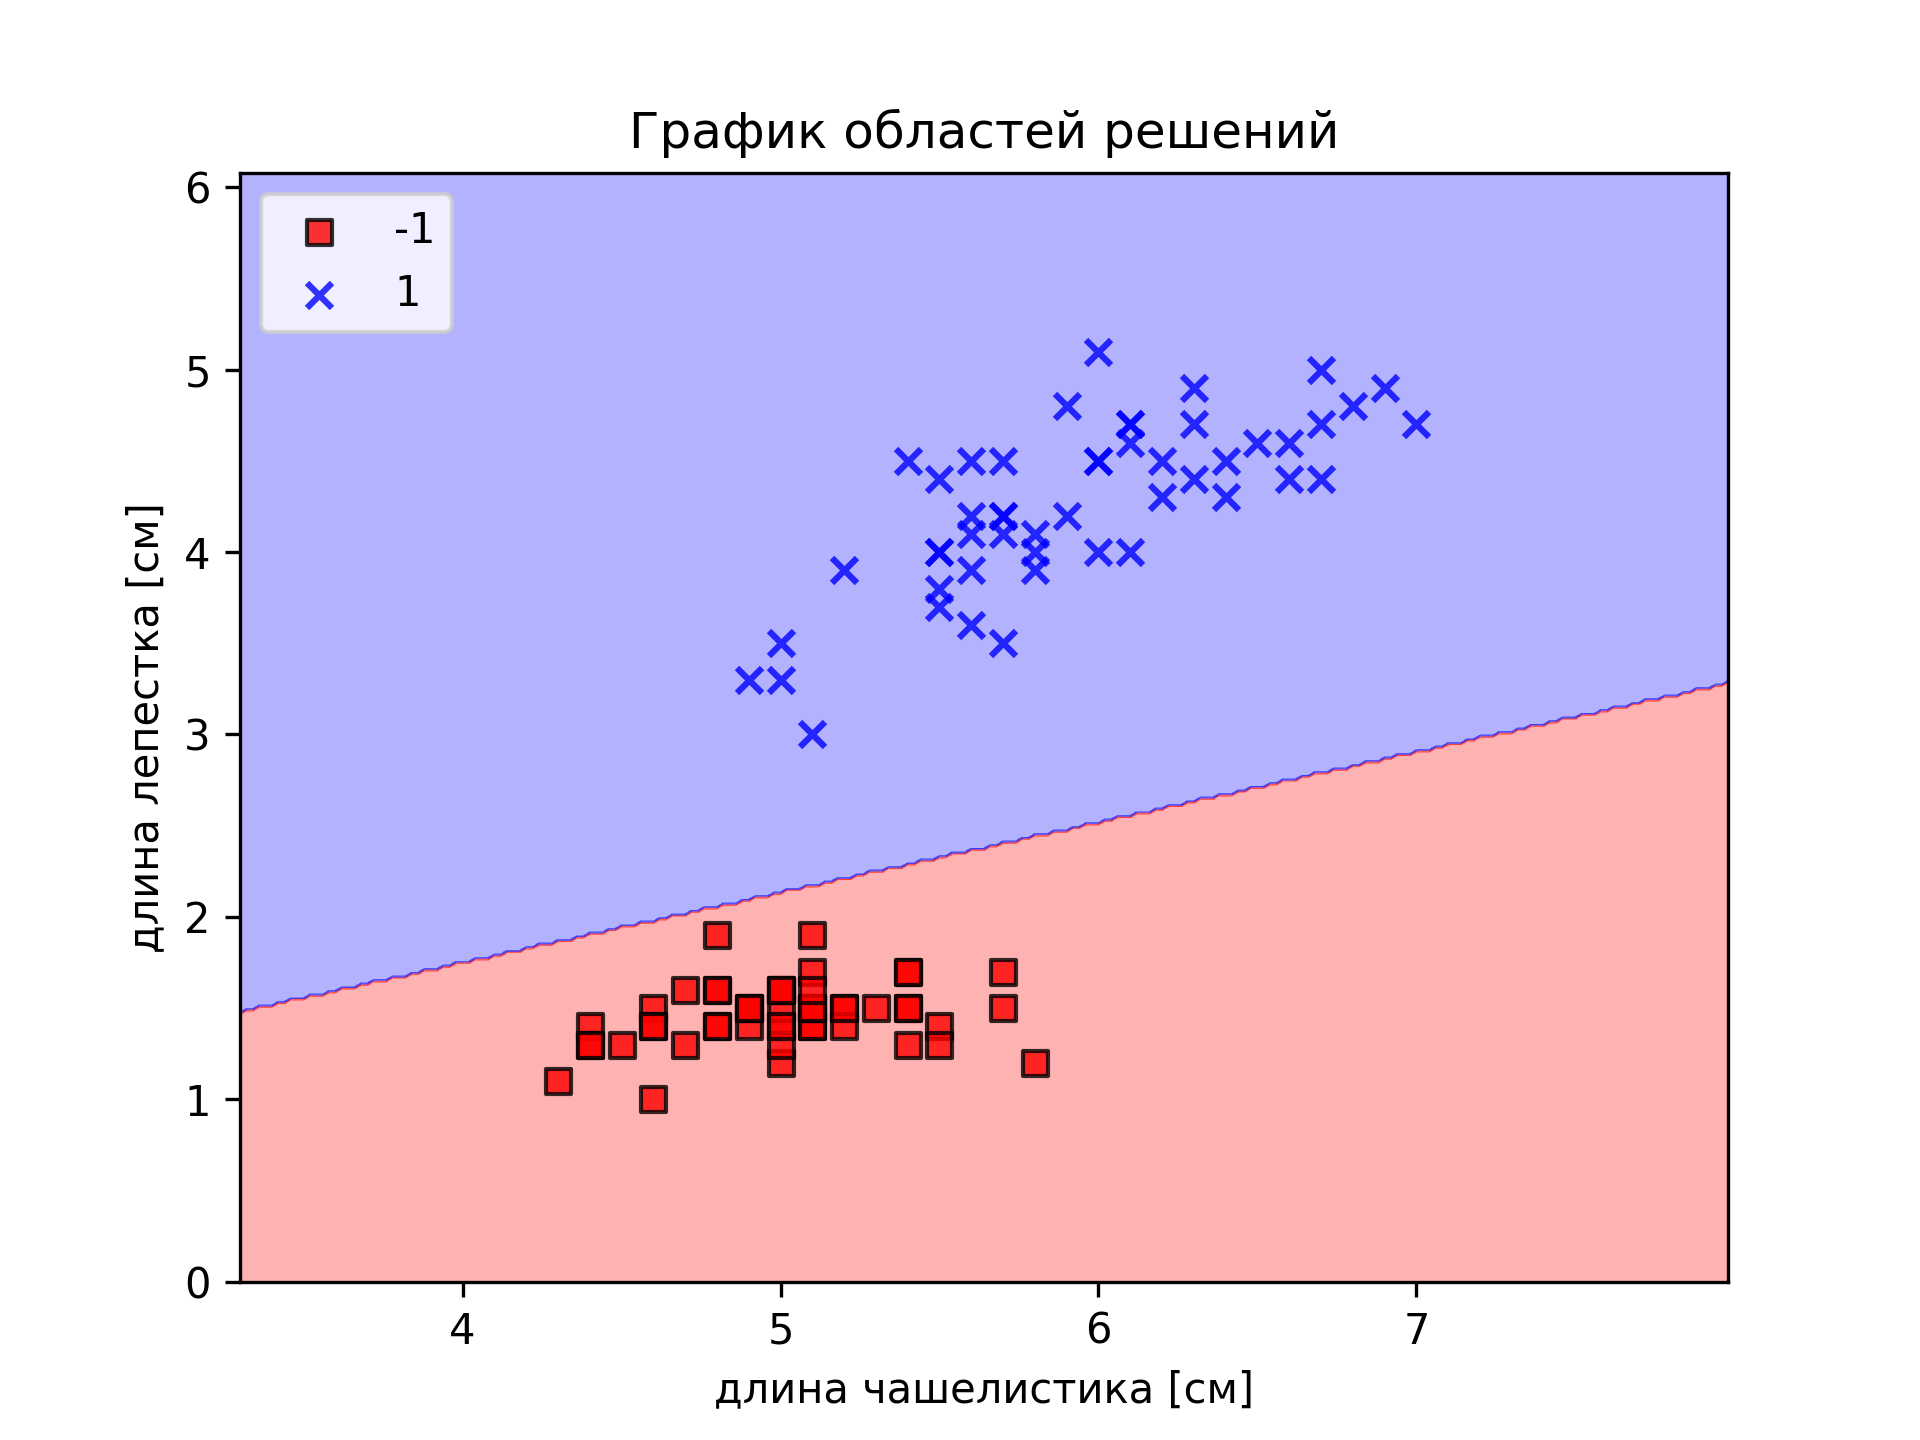
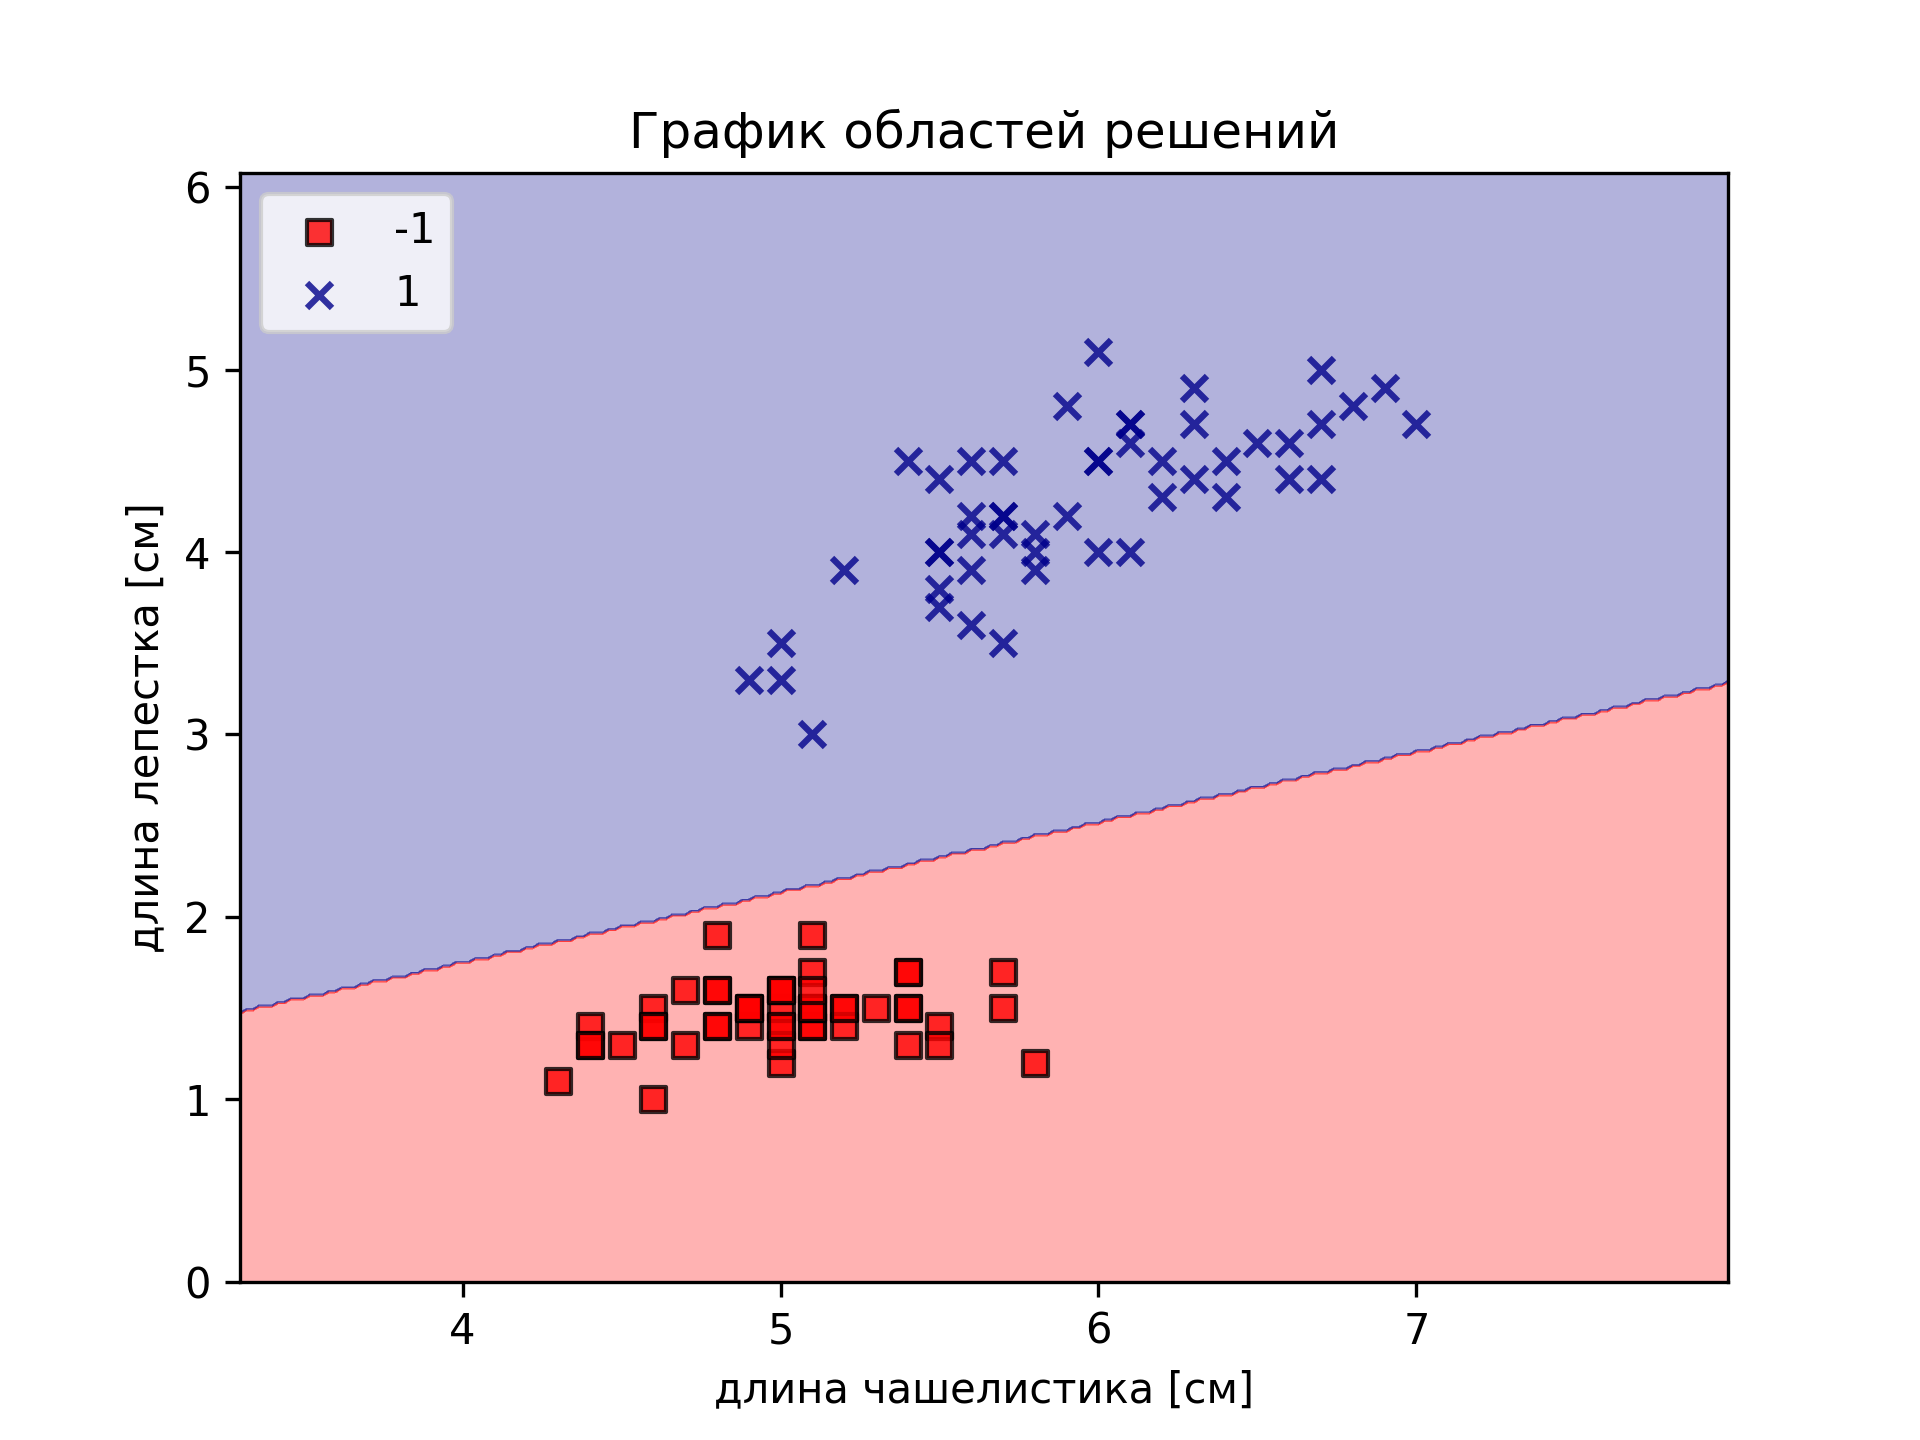
done

diff --git a/App/main.py b/App/main.py
@@ -85,7 +85,7 @@ np.arccos(v1.dot(v2) / (np.linalg.norm(v1) * np.linalg.norm(v2)))
 
 # ### Reading-in the Iris data
 
-df = df = pd.read_csv('/Users/danial/Desktop/Perceptron/iris.data', header=None)
+df = pd.read_csv('/Users/danial/Documents/GitHub/Perceptron/App/iris.data', header=None)
 df.tail()
 
 df = pd.read_csv('iris.data', header=None)
@@ -135,7 +135,7 @@ plt.show()
 def plot_decision_regions(X, y, classifier, resolution=0.02):
     # setup marker generator and color map
     markers = ('s', 'x', 'o', '^', 'v')
-    colors = ('red', 'blue', 'lightgreen', 'gray', 'cyan')
+    colors = ('red', 'darkblue', 'lightgreen', 'gray', 'pink')
     cmap = ListedColormap(colors[:len(np.unique(y))])
 
     # plot the decision surface
